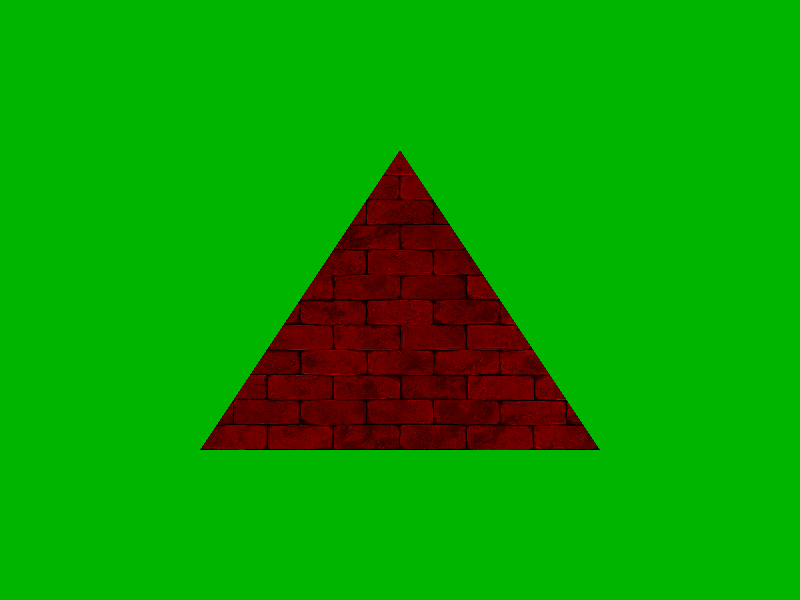
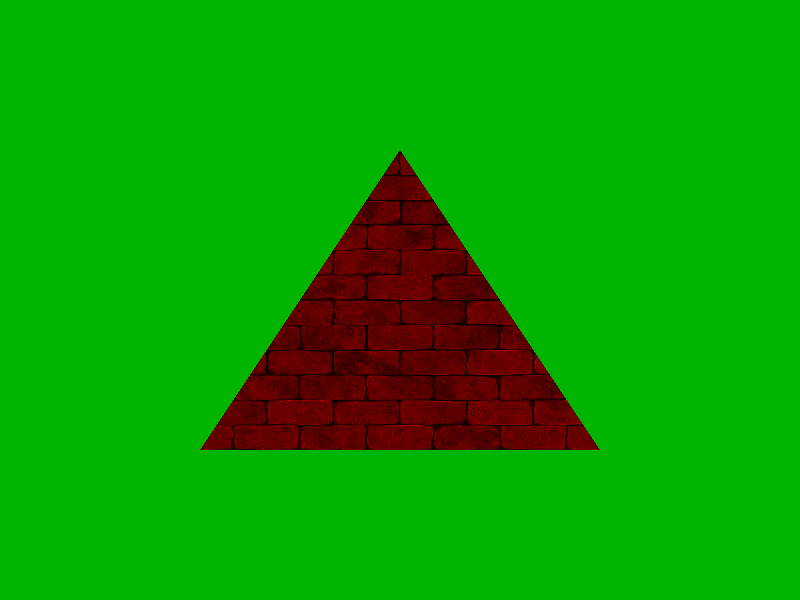
Flip texture after loading

Changed region(s): [[0.25, 0.27, 0.75, 0.75]]

diff --git a/graphic-tests/src/tests/basic_2d_textures.rs b/graphic-tests/src/tests/basic_2d_textures.rs
@@ -4,7 +4,7 @@ use phoenix::{
     components::{
         color::{Color, RGBA},
         geometry::Triangle,
-        texture::{Config, Filtering, MinFiltering, Texture, Wrapping},
+        texture::{load, Config, Filtering, MinFiltering, Texture, Wrapping},
         Component,
     },
     entities::entity::Entity,
@@ -34,7 +34,7 @@ pub fn test_2d_brick_wall_triangle(window: Rc<Window>, render: Box<dyn Render>) 
     };
 
     let path = TEST_TEXTURE_DIR.to_owned() + "brickwall.jpg";
-    let texture_data = Rc::new(image::open(Path::new(&path)).unwrap());
+    let texture_data = load(Path::new(&path)).unwrap();
     let texture = Texture::new(texture_data, texture_config);
     entity.add_component(Component::Texture(texture));
     entity.add_component(Component::Geometry(Box::new(triangle)));
@@ -72,7 +72,7 @@ pub fn test_2d_two_brick_wall_triangle(window: Rc<Window>, render: Box<dyn Rende
     };
 
     let path = TEST_TEXTURE_DIR.to_owned() + "brickwall.jpg";
-    let texture_data = Rc::new(image::open(Path::new(&path)).unwrap());
+    let texture_data = load(Path::new(&path)).unwrap();
     let texture = Texture::new(texture_data, texture_config);
     entity.add_component(Component::Texture(texture.clone()));
     entity.add_component(Component::Geometry(Box::new(triangle)));
@@ -110,7 +110,7 @@ pub fn test_2d_brick_wall_uniform_red_triangle(window: Rc<Window>, render: Box<d
     };
 
     let path = TEST_TEXTURE_DIR.to_owned() + "brickwall.jpg";
-    let texture_data = Rc::new(image::open(Path::new(&path)).unwrap());
+    let texture_data = load(Path::new(&path)).unwrap();
     let texture = Texture::new(texture_data, texture_config);
     entity.add_component(Component::Texture(texture));
     entity.add_component(Component::Geometry(Box::new(triangle)));
@@ -149,11 +149,43 @@ pub fn test_2d_brick_wall_disco_triangle(window: Rc<Window>, render: Box<dyn Ren
     };
 
     let path = TEST_TEXTURE_DIR.to_owned() + "brickwall.jpg";
-    let texture_data = Rc::new(image::open(Path::new(&path)).unwrap());
+    let texture_data = load(Path::new(&path)).unwrap();
     let texture = Texture::new(texture_data, texture_config);
     entity.add_component(Component::Texture(texture));
     entity.add_component(Component::Geometry(Box::new(triangle)));
     entity.add_component(Component::Color(Color::from_vertices(colors)));
+
+    scene.add_entity(entity);
+
+    scene.set_background_color(RGBA::from_hex(0xC1_B1_A1_FF));
+    if let Err(err) = scene.start_one_frame() {
+        println!("{err}");
+    }
+}
+
+pub fn test_2d_happy_face_linear_texture(window: Rc<Window>, render: Box<dyn Render>) {
+    let mut scene = Scene::new(window, render);
+
+    let vertices: [f32; 9] = [
+        -0.5, -0.5, 0.0, // left
+        0.5, -0.5, 0.0, // right
+        0.0, 0.5, 0.0, // top
+    ];
+
+    let triangle = Triangle::new(vertices);
+    let mut entity = Entity::default();
+    let texture_config = Config {
+        wrapping_horizontal: Wrapping::Repeat,
+        wrapping_vertical: Wrapping::Repeat,
+        min_filtering: MinFiltering::Filtering(Filtering::Linear),
+        max_filtering: Filtering::Linear,
+    };
+
+    let path = TEST_TEXTURE_DIR.to_owned() + "awesomeface.png";
+    let texture_data = load(Path::new(&path)).unwrap();
+    let texture = Texture::new(texture_data, texture_config);
+    entity.add_component(Component::Texture(texture));
+    entity.add_component(Component::Geometry(Box::new(triangle)));
 
     scene.add_entity(entity);
 

diff --git a/graphic-tests/src/tests.rs b/graphic-tests/src/tests.rs
@@ -10,7 +10,8 @@ use basic_2d_geometries::{
 };
 use basic_2d_textures::{
     test_2d_brick_wall_disco_triangle, test_2d_brick_wall_triangle,
-    test_2d_brick_wall_uniform_red_triangle, test_2d_two_brick_wall_triangle,
+    test_2d_brick_wall_uniform_red_triangle, test_2d_happy_face_linear_texture,
+    test_2d_two_brick_wall_triangle,
 };
 use colored::Colorize;
 use phoenix::{
@@ -25,7 +26,7 @@ pub mod basic_2d_textures;
 type TestFunction = fn(Rc<Window>, Box<dyn Render>);
 type TestName = &'static str;
 
-static TESTS: [(TestFunction, TestName); 9] = [
+static TESTS: [(TestFunction, TestName); 10] = [
     (
         test_2d_red_triangle_on_green_background,
         "test_2d_red_triangle_on_green_background",
@@ -58,6 +59,10 @@ static TESTS: [(TestFunction, TestName); 9] = [
     (
         test_2d_brick_wall_disco_triangle,
         "test_2d_brick_wall_disco_triangle",
+    ),
+    (
+        test_2d_happy_face_linear_texture,
+        "test_2d_happy_face_texture",
     ),
 ];
 

diff --git a/phoenix/src/components/texture.rs b/phoenix/src/components/texture.rs
@@ -1,5 +1,6 @@
+use super::Result;
 use image::{self, DynamicImage};
-use std::rc::Rc;
+use std::{path::Path, rc::Rc};
 
 pub type TexID = u32;
 
@@ -51,6 +52,14 @@ pub enum MinFiltering {
     Filtering(Filtering),
 }
 
+/// # Errors
+///
+/// Will return `Err` if file could not be opened or data in the file is corrupted.
+pub fn load(path: &Path) -> Result<Rc<DynamicImage>> {
+    let texture_data = image::open(Path::new(&path))?;
+    Ok(Rc::new(texture_data.flipv()))
+}
+
 impl Texture {
     #[must_use]
     pub fn new(data: Rc<DynamicImage>, config: Config) -> Self {
@@ -79,6 +88,11 @@ impl Texture {
     #[must_use]
     pub fn get_raw_data(&self) -> &[u8] {
         self.data.as_bytes()
+    }
+
+    #[must_use]
+    pub fn is_alpha_channel(&self) -> bool {
+        matches!(*self.data, DynamicImage::ImageRgba8(_))
     }
 }
 

diff --git a/phoenix/src/renderer/opengl/geometry_rendering.rs b/phoenix/src/renderer/opengl/geometry_rendering.rs
@@ -170,19 +170,19 @@ fn send_data_to_cpu_buffer(vertices: &[f32]) {
     }
 }
 
-fn set_vertex_attribute_pointer(index: u32, size: i32, stride: usize, offset: usize) {
+fn set_vertex_attribute_pointer(layout: u32, size: i32, stride: usize, offset: usize) {
     let stride = stride * std::mem::size_of::<f32>();
     let offset = offset * std::mem::size_of::<f32>();
     unsafe {
         gl::VertexAttribPointer(
-            index,
+            layout,
             size,
             gl::FLOAT,
             gl::FALSE,
             stride.try_into().unwrap_or(0),
             offset as *const std::ffi::c_void,
         );
-        gl::EnableVertexAttribArray(index);
+        gl::EnableVertexAttribArray(layout);
     }
 }
 

diff --git a/phoenix/src/renderer/opengl/textures.rs b/phoenix/src/renderer/opengl/textures.rs
@@ -46,6 +46,11 @@ fn is_mipmaps_set(min_filtering: MinFiltering) -> bool {
 }
 
 fn generate_texture(texture: &Texture) -> Result<()> {
+    let encode = if texture.is_alpha_channel() {
+        gl::RGBA
+    } else {
+        gl::RGB
+    };
     unsafe {
         gl::TexImage2D(
             gl::TEXTURE_2D,
@@ -54,7 +59,7 @@ fn generate_texture(texture: &Texture) -> Result<()> {
             texture.get_width().try_into().unwrap_or(0),
             texture.get_height().try_into().unwrap_or(0),
             0,
-            gl::RGB,
+            encode,
             gl::UNSIGNED_BYTE,
             texture.get_raw_data().as_ptr().cast::<std::ffi::c_void>(),
         );
